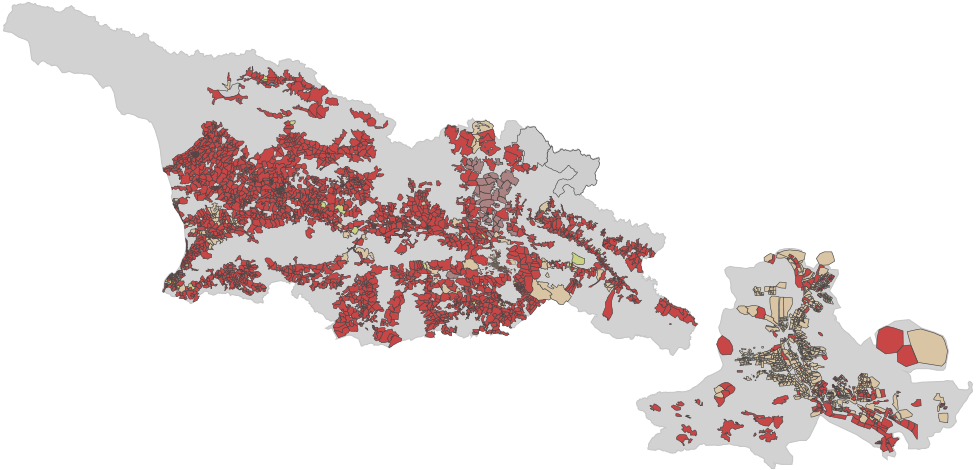
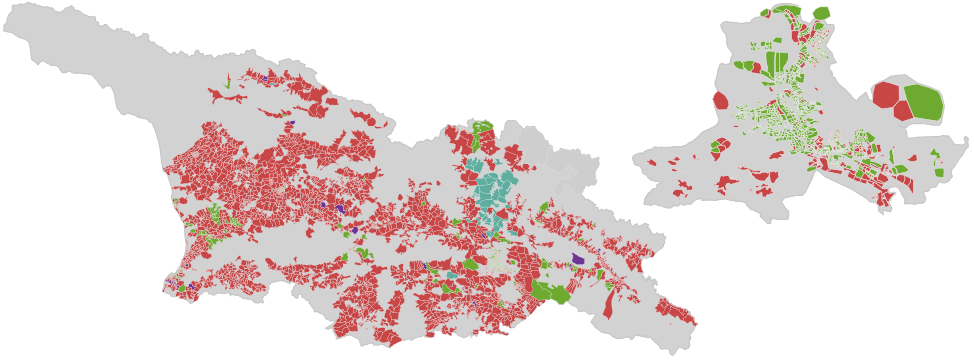
maps updated

diff --git a/fall_of_unm/ka/css/application.less b/fall_of_unm/ka/css/application.less
@@ -111,8 +111,8 @@ h1, h2, h3, h4, h5 {
   .legend {
     position: absolute;
     z-index: 200;
-    left: 730px;
-    top: 40px;
+    left: 750px;
+    bottom: 8px;
     .items {
       .item {
         font-size: 12px;
@@ -130,10 +130,10 @@ h1, h2, h3, h4, h5 {
         }
         &.no { div { background-color: #cecece; } }
         &.gd { div { background-color: #1B70AF; } }
-        &.unm { div { background-color: #c94647; } }
-        &.pk { div { background-color: #cad182; } }
-        &.gch { div { background-color: #d9c4a4; } }
-        &.shalva { div { background-color: #ac8383; } }
+        &.unm { div { background-color: #bc4243; } }
+        &.pk { div { background-color: #6c3595; } }
+        &.gch { div { background-color: #6eaa30; } }
+        &.shalva { div { background-color: #5ead9e; } }
       }
     }
   }
@@ -155,11 +155,12 @@ h1, h2, h3, h4, h5 {
     color: #7D7D7D;
     font-size: 16px;
     &.georgia {
+      display: none;
       top: 92px;
       left: 365px;
     }
     &.tbilisi {
-      top: 310px;
+      top: 80px;
       left: 861px;
     }
   }

diff --git a/fall_of_unm/en/css/application.less b/fall_of_unm/en/css/application.less
@@ -109,7 +109,7 @@ h1, h2, h3, h4, h5 {
     position: absolute;
     z-index: 200;
     left: 798px;
-    top: 0px;
+    bottom: 8px;
     .items {
       .item {
         font-size: 12px;
@@ -128,10 +128,10 @@ h1, h2, h3, h4, h5 {
         }
         &.no { div { background-color: #cecece; } }
         &.gd { div { background-color: #1B70AF; } }
-        &.unm { div { background-color: #c94647; } }
-        &.pk { div { background-color: #cad182; } }
-        &.gch { div { background-color: #d9c4a4; } }
-        &.shalva { div { background-color: #ac8383; } }
+        &.unm { div { background-color: #bc4243; } }
+        &.pk { div { background-color: #6c3595; } }
+        &.gch { div { background-color: #6eaa30; } }
+        &.shalva { div { background-color: #5ead9e; } }
       }
     }
   }
@@ -153,11 +153,12 @@ h1, h2, h3, h4, h5 {
     color: #7D7D7D;
     font-size: 16px;
     &.georgia {
+      display: none;
       top: 95px;
       left: 383px;
     }
     &.tbilisi {
-      top: 310px;
+      top: 80px;
       left: 857px;
     }
   }

diff --git a/fall_of_unm/ka/css/application.compiled.css b/fall_of_unm/ka/css/application.compiled.css
@@ -117,8 +117,8 @@ h5 {
 #object .legend {
   position: absolute;
   z-index: 200;
-  left: 730px;
-  top: 40px;
+  left: 750px;
+  bottom: 8px;
 }
 #object .legend .items .item {
   font-size: 12px;
@@ -142,16 +142,16 @@ h5 {
   background-color: #1B70AF;
 }
 #object .legend .items .item.unm div {
-  background-color: #c94647;
+  background-color: #bc4243;
 }
 #object .legend .items .item.pk div {
-  background-color: #cad182;
+  background-color: #6c3595;
 }
 #object .legend .items .item.gch div {
-  background-color: #d9c4a4;
+  background-color: #6eaa30;
 }
 #object .legend .items .item.shalva div {
-  background-color: #ac8383;
+  background-color: #5ead9e;
 }
 #object-container {
   position: relative;
@@ -170,11 +170,12 @@ h5 {
   font-size: 16px;
 }
 #object-container .map-title.georgia {
+  display: none;
   top: 92px;
   left: 365px;
 }
 #object-container .map-title.tbilisi {
-  top: 310px;
+  top: 80px;
   left: 861px;
 }
 #object-container #object,

diff --git a/fall_of_unm/en/css/application.compiled.css b/fall_of_unm/en/css/application.compiled.css
@@ -118,7 +118,7 @@ h5 {
   position: absolute;
   z-index: 200;
   left: 798px;
-  top: 0px;
+  bottom: 8px;
 }
 #object .legend .items .item {
   font-size: 12px;
@@ -143,16 +143,16 @@ h5 {
   background-color: #1B70AF;
 }
 #object .legend .items .item.unm div {
-  background-color: #c94647;
+  background-color: #bc4243;
 }
 #object .legend .items .item.pk div {
-  background-color: #cad182;
+  background-color: #6c3595;
 }
 #object .legend .items .item.gch div {
-  background-color: #d9c4a4;
+  background-color: #6eaa30;
 }
 #object .legend .items .item.shalva div {
-  background-color: #ac8383;
+  background-color: #5ead9e;
 }
 #object-container {
   position: relative;
@@ -171,11 +171,12 @@ h5 {
   font-size: 16px;
 }
 #object-container .map-title.georgia {
+  display: none;
   top: 95px;
   left: 383px;
 }
 #object-container .map-title.tbilisi {
-  top: 310px;
+  top: 80px;
   left: 857px;
 }
 #object-container #object,
